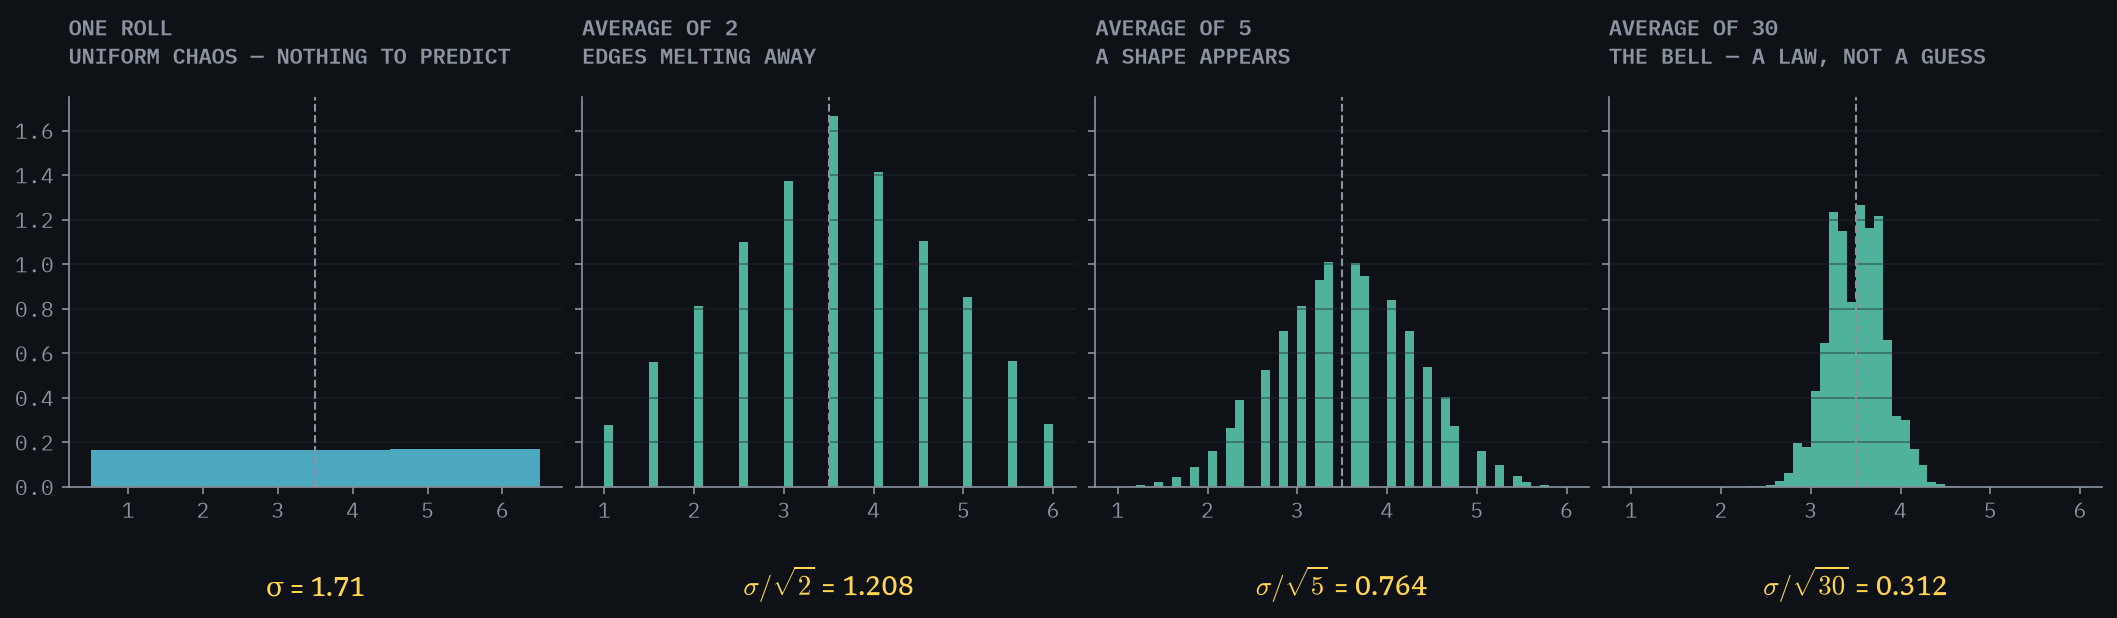
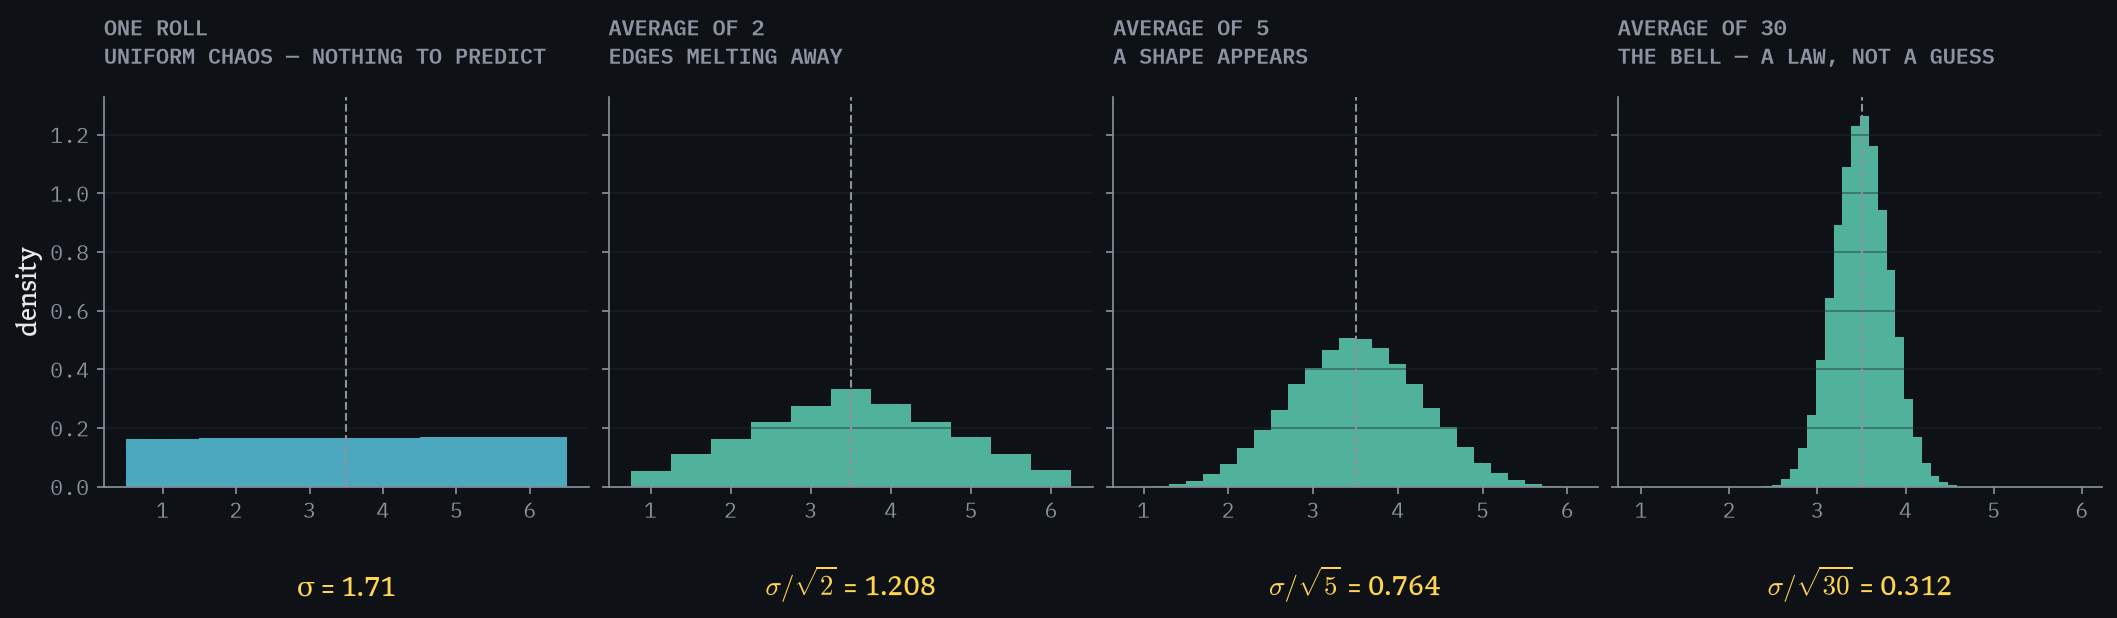
L4: bin the dice averages on their 1/k lattice (no comb), label density; 4.4 text matches the figure's σ = 0.080 mm (newcomer-test gap 10)

diff --git a/spc-lab/src/spclab/level04.py b/spc-lab/src/spclab/level04.py
@@ -59,14 +59,20 @@ def sheet_l04_dice():
         ("average of 5\na shape appears", 5),
         ("average of 30\nthe bell — a law, not a guess", 30),
     ]
-    bins = np.linspace(1, 6, 51)
     for ax, (title, k) in zip(axs, titles):
         avg = rolls[:, :k].mean(axis=1) if k > 1 else rolls[:, 0]
-        ax.hist(avg, bins=bins if k > 1 else np.arange(0.5, 7, 1),
+        # An average of k dice can only land on multiples of 1/k. Bin edges sit
+        # half a step between those values, a whole number of steps wide, or
+        # some bins catch one more possible value than their neighbours and the
+        # histogram turns into a comb.
+        step = max(1, k // 10)
+        bins = (np.arange(k, 6 * k + 2, step) - 0.5) / k
+        ax.hist(avg, bins=bins,
                 density=True, color=BLUE if k == 1 else TEAL, lw=0, alpha=.85)
         ax.axvline(3.5, color=MUTED, ls="--", lw=1)
         ax.set_title(title, fontsize=12, loc="left")
         ax.grid(alpha=.5, axis="y")
+    axs[0].set_ylabel("density")
 
     # annotate the shrinking spread with real numbers
     sd1 = rolls.std()
@@ -85,8 +91,11 @@ def sheet_l04_dice():
 # ---------------------------------------------------------------------------
 # Sheet 2 — sigma_xbar = sigma / sqrt(n): THE reason X̄ charts exist
 # ---------------------------------------------------------------------------
+SQRTN_SIGMA = 0.08  # a plausible machining σ in mm, read by the Level 4 page
+
+
 def sheet_l04_sqrtn():
-    sig = 0.08  # a plausible machining σ in mm
+    sig = SQRTN_SIGMA
 
     fig, axs = plt.subplots(1, 2, figsize=(13, 4.8), constrained_layout=True)
 

diff --git a/tools/chapterise.py b/tools/chapterise.py
@@ -344,6 +344,7 @@ TAIL_K = {k: 1 - phi(k) for k in (1, 2, 3)}
 TAIL3_PPM = f"{TAIL_K[3]*1e6:,.0f}".replace(",", " ")  # the site writes 1 350
 
 from spclab.level06 import XR_SIGMA, xbar_r_example  # noqa: E402
+from spclab.level04 import SQRTN_SIGMA  # noqa: E402
 
 # Level 6.7 builds one X̄–R chart. The page quotes the same arrays the figure
 # draws, so the arithmetic in the prose and the lines on the chart cannot part.
@@ -1534,10 +1535,11 @@ def chapter_04(K):
             "      " + K["eq"],
         ]),
         ("s4", "4.4", "What averaging buys", [
-            para("Put subgroup size along the bottom and the spread of the mean up the side, with"
-                 " sigma set to one, then walk the subgroup size from one to twenty-five. At"
-                 " twenty-five parts the spread of the mean is a fifth of one part's spread — the"
-                 " root is doing all the work.",
+            para("Put subgroup size along the bottom and the spread of the mean up the side,"
+                 f" for a machined part with σ = {SQRTN_SIGMA:.3f} mm, then walk the subgroup"
+                 " size from one to twenty-five. At twenty-five parts the spread of the mean is"
+                 f" {SQRTN_SIGMA/5:.3f} mm, a fifth of one part's spread — the root is doing all"
+                 " the work.",
                  datanote(("2nd part buys", "0.29 σ"), ("25th part buys", "0.004 σ"),
                           k="the shape of the deal")),
             para("But look at the shape of what you are buying. The second part cuts your"
